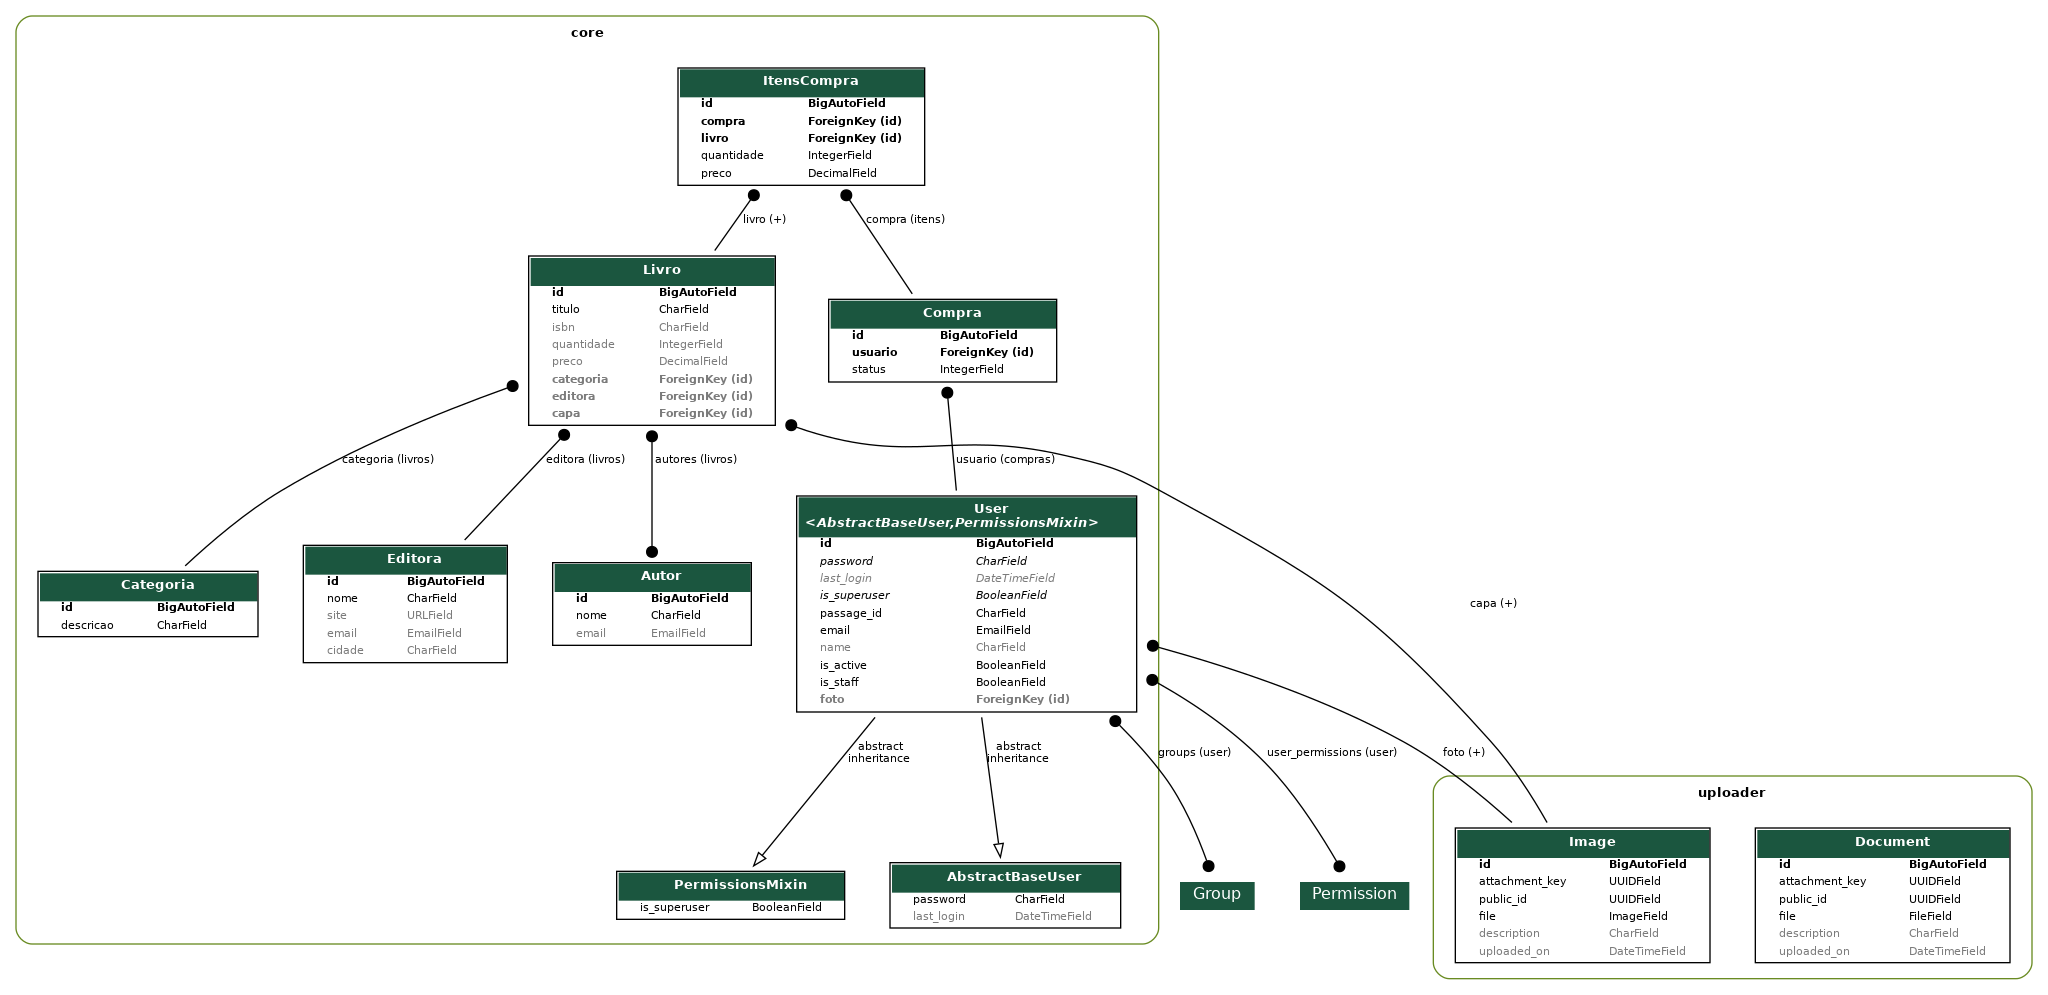
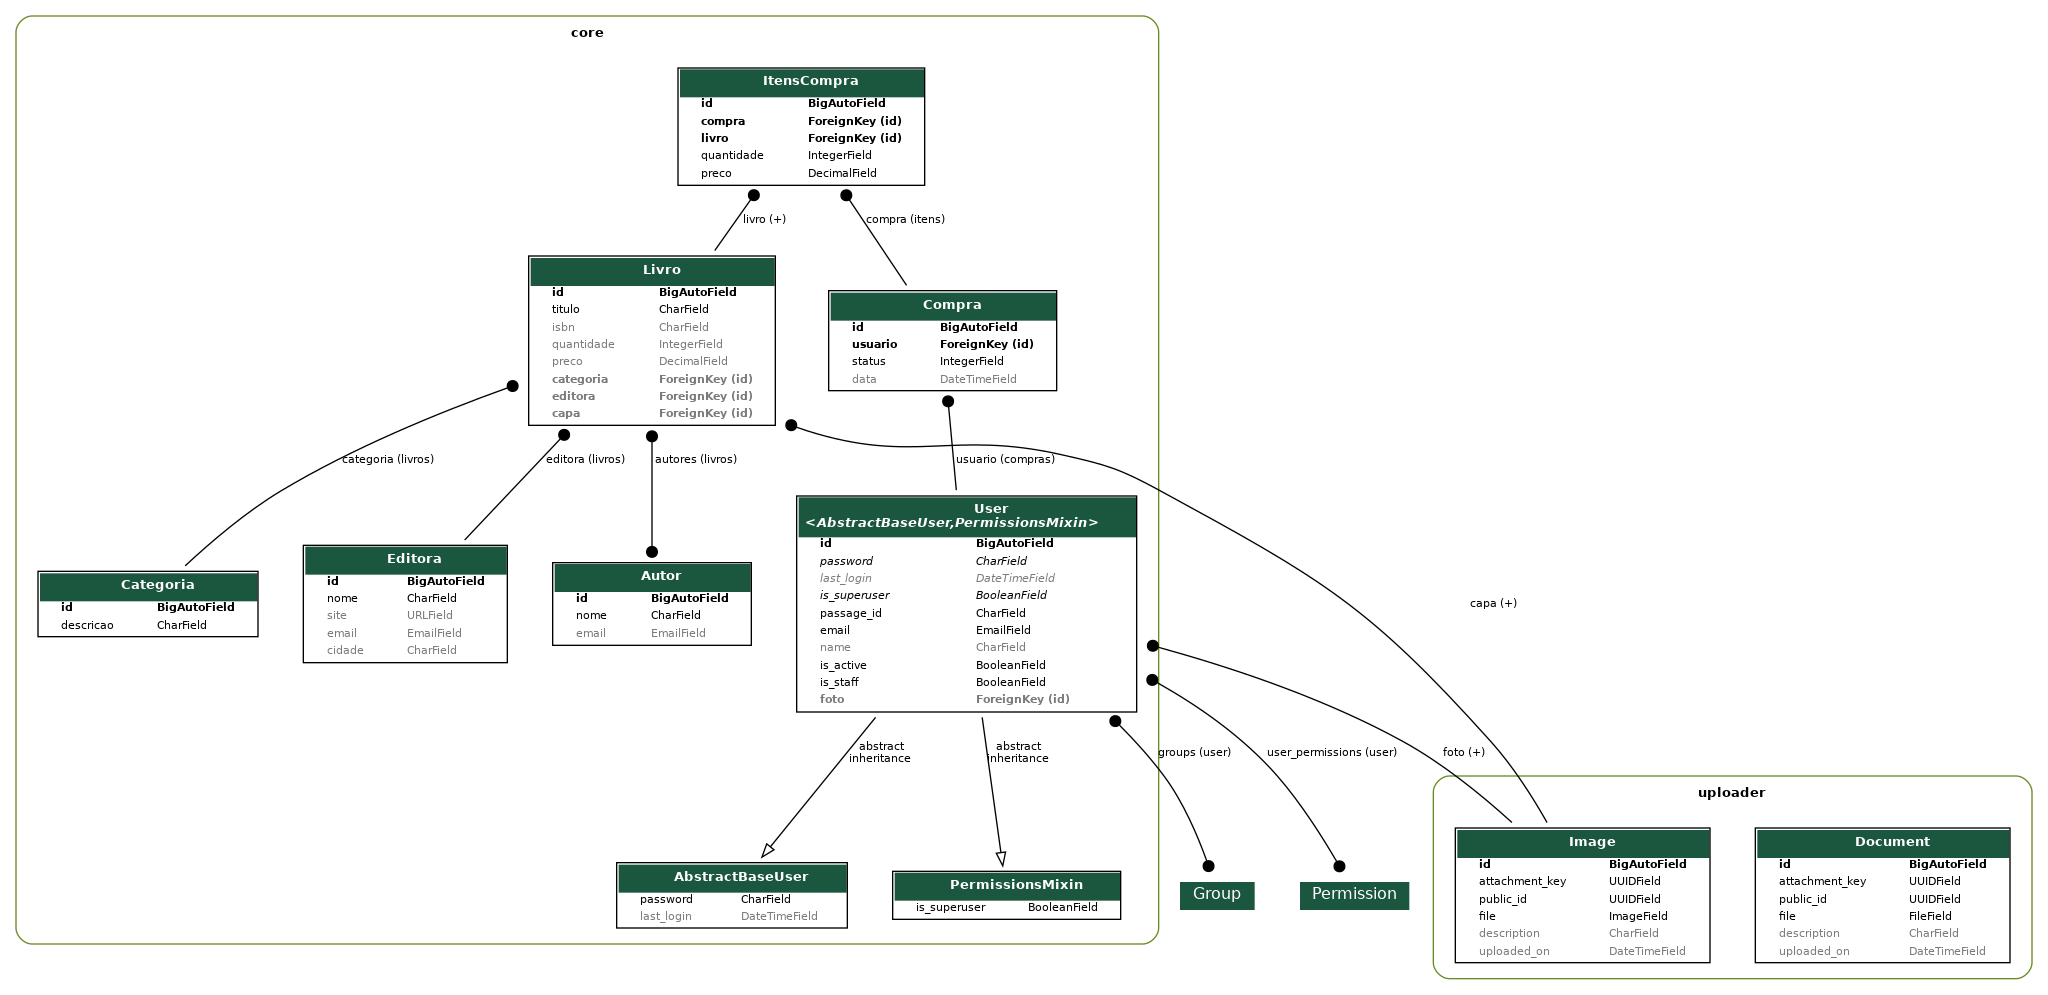
feat: acrescentando a data da compra

Changed region(s): [[0.2812, 0.8412, 0.5625, 0.9347], [0.4062, 0.2804, 0.5312, 0.405], [0.4062, 0.7477, 0.4375, 0.7789]]

diff --git a/core/serializers/compra.py b/core/serializers/compra.py
@@ -5,6 +5,7 @@ from rest_framework.serializers import (
     ModelSerializer,
     SerializerMethodField,
     ValidationError, # novo
+    DateTimeField, # novo
 )
 
 from core.models import Compra, ItensCompra
@@ -85,8 +86,9 @@ class CompraSerializer(ModelSerializer):
     usuario = CharField(source="usuario.email", read_only=True)
     status = CharField(source="get_status_display", read_only=True) 
     itens = ItensCompraSerializer(many=True, read_only=True)
+    data = DateTimeField(read_only=True) # novo campo
     
 
     class Meta:
         model = Compra
-        fields = ('id', 'usuario', 'status', 'total', 'itens')
+        fields = ('id', 'usuario', 'status', 'total', 'data', 'itens')

diff --git a/core/migrations/0021_compra_data.py b/core/migrations/0021_compra_data.py
@@ -1,0 +1,20 @@
+# Generated by Django 5.2.1 on 2025-09-05 17:16
+
+import django.utils.timezone
+from django.db import migrations, models
+
+
+class Migration(migrations.Migration):
+
+    dependencies = [
+        ('core', '0020_itenscompra_preco'),
+    ]
+
+    operations = [
+        migrations.AddField(
+            model_name='compra',
+            name='data',
+            field=models.DateTimeField(auto_now_add=True, default=django.utils.timezone.now),
+            preserve_default=False,
+        ),
+    ]

diff --git a/core/models/compra.py b/core/models/compra.py
@@ -11,6 +11,7 @@ class Compra(models.Model):
 
     usuario = models.ForeignKey(User, on_delete=models.PROTECT, related_name="compras")
     status = models.IntegerField(choices=StatusCompra.choices,  default=StatusCompra.CARRINHO)
+    data = models.DateTimeField(auto_now_add=True) # campo novo
 
     def __str__(self):
         return f'({self.id}) {self.usuario} {self.get_status_display()}'
